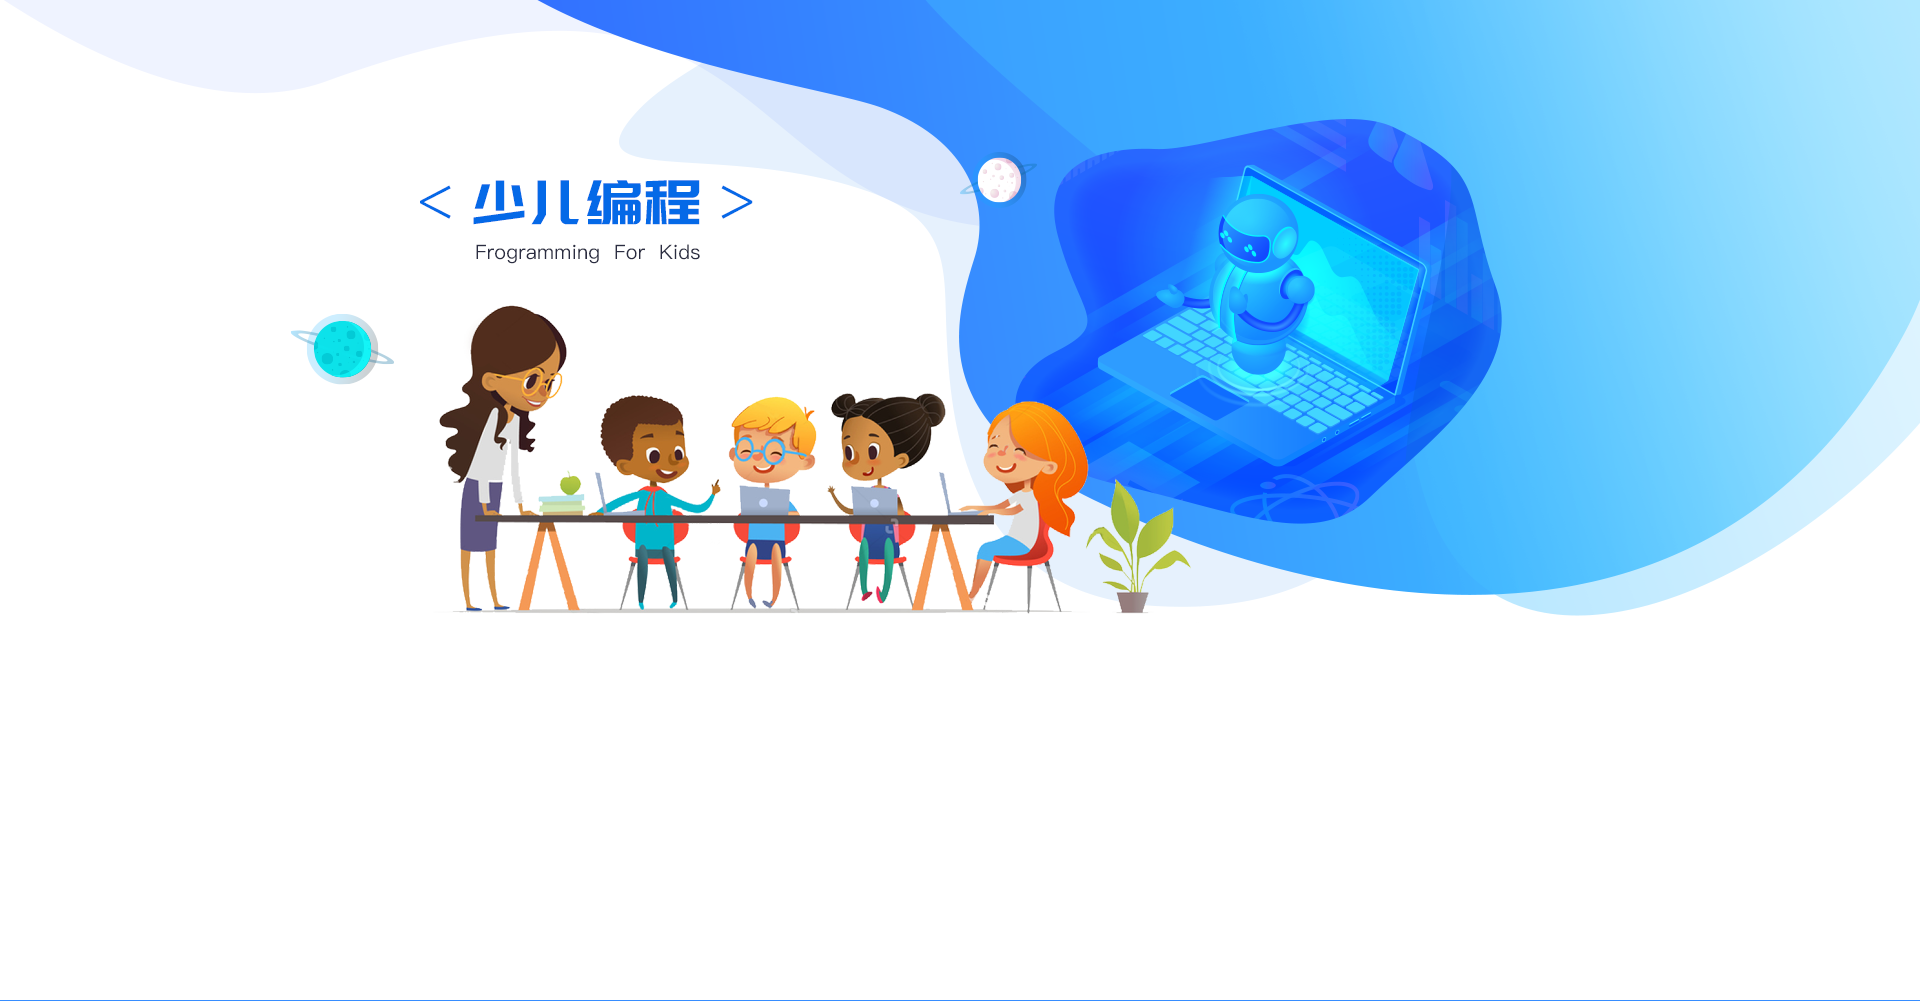
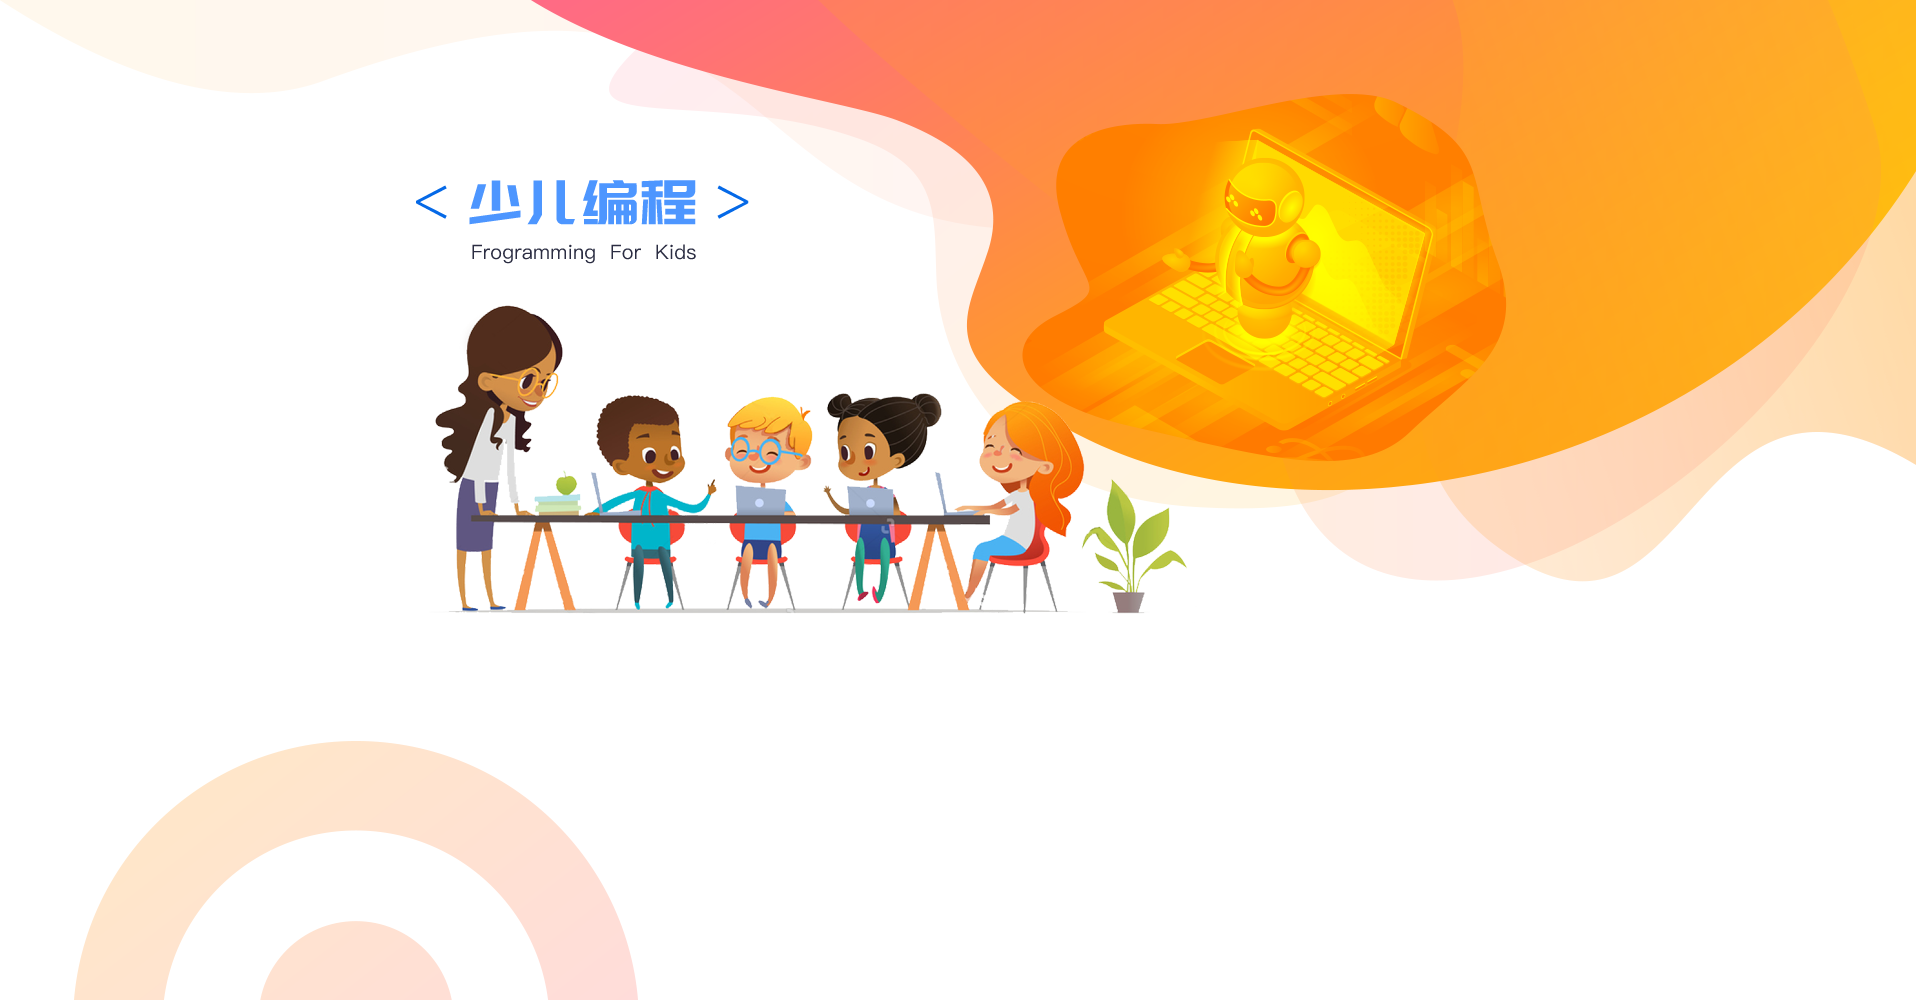
更改首页视觉

diff --git a/src/pages/home/HomeView.js b/src/pages/home/HomeView.js
@@ -1,6 +1,6 @@
 import React from 'react';
 import styles from './HomeView.less';
-import Logo from 'img/logo.png';
+import Logo from 'img/logo-1.png';
 import Content from 'img/content-2.png';
 import Teacher from 'img/content-3.png';
 import Lesson from 'img/content-4.png';
@@ -13,7 +13,7 @@ const LessonView = (props) => {
   
   return (
       <div className={styles.container}>
-        <Login className={styles.login} />
+        {/* <Login className={styles.login} /> */}
         <div className={styles['content-1']}>
           <div className={styles.header}>
             <img className={styles.logo} src={Logo} alt="" />
@@ -30,28 +30,9 @@ const LessonView = (props) => {
               <span>注册</span>
             </div>
           </div>
-          <div className={styles.feature}>
-            <div className={styles.computer}>
-              <div className={styles['computer-icon-container']}>
-                <img className={styles['computer-icon']} src={Computer} alt="" />
-              </div>
-              <span className={styles.title}>趣味图形化编程课</span>
-              <span>入门优选</span>
-              <span>让编程像搭积木一样好玩</span>
-            </div>
-            <div className={styles.hand}>
-              <img className={styles['hand-icon']} src={Hand} alt="" />
-              <span className={styles.title}>Python游戏化编程课</span>
-              <span>列入高考科目</span>
-              <span>学Python要从娃娃抓起</span>
-            </div>
-            <div className={styles.fly}>
-              <img className={styles['fly-icon']} src={Fly} alt="" />
-              <span className={styles.title}>1对1大师课</span>
-              <span>沉浸式学习</span>
-              <span>真正放飞想像力</span>
-            </div>
-          </div>
+        <div className={styles.feature}>
+          飞象章鱼通过编程教育与智能硬件的结合，使孩子在图形化编程、游戏设计、软件开发、算法学习、三维设计、程序撰写、智能机器控制、人脸语音识别的过程中了解AI、科技、艺术、数学、人工智能等综合性知识技能，全方位的培养孩子的逻辑思维能力、实践创作能力、跨学科综合能力、审美能力和团队协作能力等综合素养。
+        </div>
         </div>
         <img className={styles['content-2']} src={Content} alt="" />
         <img className={styles['content-3']} src={Teacher} alt="" />

diff --git a/src/pages/home/HomeView.less b/src/pages/home/HomeView.less
@@ -19,7 +19,7 @@
       padding: 0.12rem 3.6rem 0;
       user-select: none;
       .logo{
-        width: 1.62rem;
+        width: 2.86rem;
         height: 0.56rem;
       }
       .nav{
@@ -29,7 +29,7 @@
         margin-top: 0.1rem;
         .item{
           padding: 0 0.2rem;
-          border-right: 1px solid #94bdff;
+          border-right: 1px solid rgba(255,255,255,0.47);
         }
         .item:last-child{
           border-right: none;
@@ -40,40 +40,14 @@
         justify-content: space-between;
         width: 1rem;
         margin-top: 0.05rem;
+        font-weight: bold;
       }
     }
     .feature{
-      display: flex;
-      justify-content: space-between;
-      width: 40%;
-      margin: 6.5rem auto;
-      font-size: 0.16rem;
-      .computer, .hand, .fly{
-        display: flex;
-        flex-direction: column;
-      }
-      .computer-icon-container{
-        display: flex;
-        justify-content: center;
-        align-items: center;
-        height: 0.88rem;
-      }
-      .computer-icon{
-        width: 0.95rem;
-      }
-      .hand-icon{
-        align-self: center;
-        width: 0.89rem;
-      }
-      .fly-icon{
-        align-self: center;
-        width: 0.88rem;
-      }
-      .title{
-        font-size: 0.24rem;
-        font-weight: bold;
-        margin: 0.3rem 0 0.15rem;
-      }
+      width: 8.37rem;
+      margin: 6.6rem auto;
+      font-size: 0.14rem;
+      font-weight: bold;
     }
   }
   .content-2, .content-3, .content-4{
@@ -106,7 +80,7 @@
     justify-content: center;
     align-items: center;
     height: 51px;
-    background: #79cc86;
+    background: #ffb000;
     color: #fff;
   }
 }
